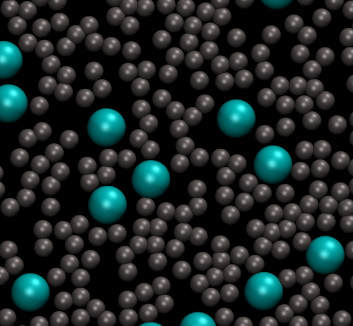
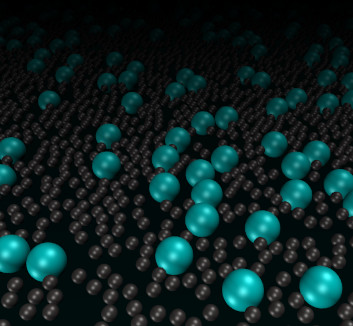
Add files via upload

diff --git a/tuto01/tuto01a.html b/tuto01/tuto01a.html
@@ -34,14 +34,26 @@
 <span class="image main"><img src="lammps_tuto01.jpg" alt="" /></span>
 
 <p>							
-The purpose of this tutorial is to show you how to use LAMMPS to perform a simple simulation of molecular dynamics.
-To follow this tutorial, you don't need to know any computer language, and you don't need to have any previous experience with simulation. I will be using Ubuntu, but any OS is fine. 
+<b>Objective:</b> The purpose of this tutorial is to use the open-source molecular dynamics code named LAMMPS (acronym for Large-scale Atomic/Molecular Massively Parallel Simulator) to perform a simple simulation. The simulation consists in a binary fluid in a 2D box (see the image above), with atoms of the fluid interacting through a simple Lennard-Jones potential. This simulation may seem overly simple, but is however extremely instructive as it uses many ingredients that are fundamental to molecular dynamics simulations, such as system initialisation, integration of the equations of motion, etc.
+
 <br><br>
-The simulation consists in a binary fluid in a 2D box (see the image above), with atoms on the fluid interacting through a simple Lennard-Potential. Even if this simulation may seems overly simple, it is in fact extremely instructive as it use many ingredients that are fundamental to molecular dynamics simulations.
+
+<b>Prerequisite:</b> To follow this tutorial, you don't need to know any computer language, and you don't need to have any previous experience with simulation.
+
 <br><br>
-If you already have a good grasp on LAMMPS, you can download directly the input script that will be written following this tutorial <a href="input.lammps" target="_blank">here</a>.
+
+<b>Shortcut:</b> If you already have a good grasp on LAMMPS, you can download directly the input script that will be written following this tutorial <a href="input.lammps" target="_blank">here</a>.</p>
+
+<blockquote>
+<i>Note 1.</i> The basic logic of molecular dynamics is exposed in this 46 seconds videos: <br> <br>
+<iframe width="560" height="315" src="https://www.youtube.com/embed/9MjGNyblIIQ" frameborder="0" allow="accelerometer; autoplay; clipboard-write; encrypted-media; gyroscope; picture-in-picture" allowfullscreen></iframe>
+</blockquote>
+
+<blockquote>
+<i>Note 2.</i> If you have any suggestion that could help me improve these tutorials, or find a typo, please contact me by email at s.gravelle at qmul.ac.uk.
+</blockquote>
  
-</p>
+
 
 <h2>Step 1 -- Software installation</h2>
 <br>
@@ -63,7 +75,7 @@ LAMMPS is the code that will allow us to perform our molecular simulations, but 
 <a href="https://help.gnome.org/users/gedit/stable/" target="_blank" class="removelinkdefault">gedit</a>, 
 but any text editor will do,</li>
 <li> a visualisation software, here I will use
-<a href="https://www.ks.uiuc.edu/Research/vmd/" target="_blank" class="removelinkdefault">VMD</a> (note that you will have to register in order to download VMD. If you don't want to, you can also use Ovito),</li>
+<a href="https://www.ks.uiuc.edu/Research/vmd/" target="_blank" class="removelinkdefault">VMD</a> (note that you will have to register in order to download VMD. If you don't want to, you can also use <a href="https://www.ovito.org/" target="_blank" class="removelinkdefault">Ovito</a>),</li>
 <li> and a plotting tool, for example 
 <a href="http://exciting-code.org/xmgrace-quickstart" target="_blank" class="removelinkdefault">Xmgrace</a>.</li>
 </ul>
@@ -73,7 +85,7 @@ but any text editor will do,</li>
 <h2>Step 2 -- Your first LAMMPS script</h2>
 <br>
 <p>
-In order to run a simulation using LAMMPS, we just need to write a series of commands in an input script, which is simply a text file. Lammps will read the text file one line at a time. A typical input script contains four categories, which we are going to fill right now. Create a folder, and create a text file in it. Call it <i>input.lammps</i> and copy the following lines in it: 
+In order to run a simulation using LAMMPS, we just need to write a series of commands in an input script, which is typically a short text file. Lammps will read the text file one line at a time. A typical input script contains four categories, which we are going to fill soon. Create a folder, and create a text file in it. Call it 'input.lammps', and copy the following lines in it: 
 <pre><code># Initialization
 
 # System definition
@@ -83,7 +95,7 @@ In order to run a simulation using LAMMPS, we just need to write a series of com
 # Run
 </code></pre>
 </p><p>
-A line starting with a # is a comment that will be ignored by LAMMPS. In the first part of the script, called <i>Initialization</i>, we are going to indicate to LAMMPS what kind of simulation we are going to execute, by specifying the boundary conditions, the type of atoms (e.g. uncharged single dot, molecule, etc), etc. Enter the following lines:
+A line starting with a # is a comment that will be ignored by LAMMPS. In the first section of the script, called 'Initialization', we are going to indicate to LAMMPS what kind of simulation we are going to execute by specifying vary basic information, such as the conditions at the boundaries of the box (e.g periodic, non-periodic) or the type of atoms (e.g. uncharged single dots, spheres with angular velocities, etc.). Enter the following lines:
 <pre><code># Initialization
 
 units		lj
@@ -92,14 +104,14 @@ atom_style	atomic
 pair_style	lj/cut 2.5
 boundary	p p p 
 </code></pre></p><p>
-The five new lines are respectively four commands that will be understood by LAMMPS. The first line indicates that we want to use the system of unit called <i>lj</i> for which all quantities are unitless. The second line indicates that the simulation is 2D, the third line that the atomic style will be used (therefore atoms are just a dot with a mass). The fourth line indicates that atoms are going to interact through a Lennard-Jones potential with a cut-off equal to 2.5, and the last line indicates that the periodic boundary conditions are used along all three direction of space. It may seems strange to define periodic boundary condition along the third dimension since we are performing 2D simulation, but it is a LAMMPS requirement. At this point, you have a LAMMPS script that does nothing. You can execute it to verify that there is no mistake by running the following command in the terminal:
+These five new lines are respectively four commands that will be understood by LAMMPS. The first line indicates that we want to use the system of unit called 'lj' for which all quantities are unitless. The second line indicates that the simulation is 2D, the third line that the atomic style will be used (therefore atoms are just a dot with a mass). The fourth line indicates that atoms are going to interact through a Lennard-Jones potential with a cut-off equal to 2.5 (unitless), and the last line indicates that the periodic boundary conditions are used along all three direction of space. It may seems strange to define periodic boundary condition along the third dimension since we are performing 2D simulation, but it is a LAMMPS requirement. At this point, you have a LAMMPS script that does nothing. You can execute it to verify that there is no mistake by running the following command in the terminal:
 <pre><code>lmp -in input.lammps
 </code></pre></p><p>
 Which should return something like
 <pre><code>LAMMPS (20 Nov 2019)
 Total wall time: 0:00:00
 </code></pre></p><p>
-If you have a mistake in your code, for example if you wrote <i>atom_stile</i> instead of <i>atom_style</i>, LAMMPS will give you a warning:
+If you have a mistake in your code, for example if you wrote 'atom_stile' instead of 'atom_style', LAMMPS will give you a warning:
 <pre><code>LAMMPS (20 Nov 2019)
 ERROR: Unknown command: atom_stile	atomic (src/input.cpp:232)
 Last command: atom_stile	atomic
@@ -112,7 +124,7 @@ create_box        2 myreg
 create_atoms      1 random 1500 341341 myreg
 create_atoms      2 random 100 127569 myreg
 </code></pre></p><p>
-The first line creates a region of space named <i>myreg</i> that goes from -30 to 30 along x, -30 to 30 along y, and -0.5 to 0.5 along z, and the second line creates a simulation box based on the region <i>myreg</i>. The argument '2' corresponds to number of atom types that will be used in the simulation. The third command specifies that 1500 atoms of type 1 must be created randomly in the region <i>myreg</i>. <i>341341</i> is a seed, you can give it different values to create different initial conditions for your simulations. The fourth line creates 100 atoms of type 2. If you run LAMMPS, you should see the following in the terminal:
+The first line creates a region of space named 'myreg' that goes from -30 to 30 along x, -30 to 30 along y, and -0.5 to 0.5 along z, and the second line creates a simulation box based on the region 'myreg'. The argument '2' corresponds to number of atom types that will be used in the simulation. The third command specifies that 1500 atoms of type 1 must be created randomly in the region 'myreg'. '341341' is a seed, you can give it different values to create different initial conditions for your simulations. The fourth line creates 100 atoms of type 2. If you run LAMMPS, you should see the following in the terminal:
 <pre><code>LAMMPS (20 Nov 2019)
 Created orthogonal box = (-30 -30 -0.5) to (30 30 0.5)
   1 by 1 by 1 MPI processor grid
@@ -122,7 +134,11 @@ Created 100 atoms
   create_atoms CPU = 4.097e-05 secs
 Total wall time: 0:00:00
 </code></pre></p><p>
-From what is printed in the terminal, it is clear that LAMMPS understood the commands and created the box, then the atoms. We can fill the simulation settings section of the input script:
+From what is printed in the terminal, it is clear that LAMMPS understood the commands and created the box, then the atoms. 
+
+<br><br>
+
+Let us fill the third section (settings) of the input script:
 <pre><code># Simulation settings
 
 mass              1 1
@@ -130,13 +146,21 @@ mass              2 1
 pair_coeff        1 1 1.0 1.0
 pair_coeff        2 2 0.5 3.0
 </code></pre></p><p>
-The two first commands give a mass equal to 1 (unitless) to atoms of type 1 and 2 respectively. The third line sets the Lennard-Jones coefficients (respectively the depth of the potential well ε and the distance at which the particle-particle potential energy is zero σ) for the interactions between atoms of type 1. The last line sets the Lennard-Jones coefficients for the interactions between atoms of type 2. By default, LAMMPS will calculate the Lennards coefficients for the interactions between atoms of type 1 and 2 by using geometric average (i.e. ε_ij = (ε_ii ε_jj)^0.5 and σ_ij = (σ_ii σ_jj)^0.5). We are ready to start the simulation, and can start to fill the Run section of the input script. Let us first perform a minimisation of energy:
+The two first commands attribute a mass equal to 1 (unitless) to atoms of type 1 and 2 respectively. The third line sets the Lennard-Jones coefficients (respectively the depth of the potential well ε and the distance at which the particle-particle potential energy is zero σ) for the interactions between atoms of type 1. The last line sets the Lennard-Jones coefficients for the interactions between atoms of type 2. By default, LAMMPS will calculate the Lennards coefficients for the interactions between atoms of type 1 and 2 by using geometric average (i.e. ε_ij = (ε_ii ε_jj)^0.5 and σ_ij = (σ_ii σ_jj)^0.5). 
+
+<br><br>
+
+The simulation is almost ready, we just need to fill the 'Run' section of the input script. Let us first perform a minimisation of energy:
 <pre><code># Run
 
 thermo		10
 minimize	1.0e-4 1.0e-6 1000 10000
 </code></pre></p><p>
-The first line simply commands LAMMPS to print thermodynamic info, like the temperature or the energy, in the terminal every 10 timestep. The second line asks LAMMPS to perform an energy minimization of the system. An energy minimization consist in adjusting the coordinates of the atoms until a stopping criteria is reached. Here the stopping criteria are, respectively, the change in energy between two iterations is less than 1.0e-4, the maximum force between two atoms in the system is lower than 1.0e-6, the maximum number of iteration is 1000, of the maximum number of times force and energy have been evaluated is 10000. If you run the simulation, and if there is no error in the input file, you should have many information printed in you terminal. For example, you should see the following lines in the middle (with different values eventually):
+The first line asks LAMMPS to print thermodynamic information (e.g. temperature, energy) in the terminal every 10 timesteps. The second line asks LAMMPS to perform an energy minimization of the system. An energy minimization consists in adjusting the coordinates of the atoms until one of the stopping criteria is reached. Here the stopping criteria are, respectively, the change in energy between two iterations is less than 1.0e-4, the maximum force between two atoms in the system is lower than 1.0e-6, the maximum number of iterations is 1000, or the maximum number of times the force and the energy have been evaluated is 10000. 
+
+<br><br>
+
+Now running the simulation, you should see numerous information printed in you terminal. For example, you should see the following lines (with slightly different values eventually):
 <pre><code>Step Temp E_pair E_mol TotEng Press 
        0            0 5.8997404e+14            0 5.8997404e+14 1.5732641e+15 
       10            0     56275037            0     56275037 1.5007118e+08 
@@ -149,14 +173,18 @@ The first line simply commands LAMMPS to print thermodynamic info, like the temp
       80            0   -1.7516642            0   -1.7516642  -0.15686171 
       81            0   -1.7518285            0   -1.7518285  -0.15730928 
 </code></pre></p><p>
-These lines give us many information concerning the progress of the energy minimisation step. First, at a the start of the simulation (step 0), the energy in the system is huge: 5.8997404e+14 (unitless). This is normal because the atoms have been created randomly within the simulation box, and some of them are probably too close to each others at the beginning, resulting in a huge initial energy. As the energy minimisation progresses, the energy rapidly decreases and reaches a negative, more acceptable value, indicating that atoms have been displaced at a reasonable distance from each others. Still in the terminal, you can find other interesting information, for example, LAMMPS tells us that the first of the fiur criteria to be satisfied was the energy:
+These lines give us many information concerning the progress of the energy minimisation step. First, at the start of the simulation (step 0), the energy in the system is huge: 5.8997404e+14 (unitless). This is normal because the atoms have been created randomly within the simulation box, and some of them are probably too close to each others at the beginning, resulting in a huge initial energy. As the energy minimisation progresses, the energy rapidly decreases and reaches a negative, more acceptable value, indicating that the atoms have been displaced at reasonable distances from each others. Still in the terminal, you can find other interesting information, for example, LAMMPS tells us that the first of the four criteria to be satisfied was the energy:
 <pre><code>Minimization stats:
   Stopping criterion = energy tolerance
 </code></pre></p><p>
 You may also see the following warning:
 <pre><code>WARNING: Using 'neigh_modify every 1 delay 0 check yes' setting during minimization
 </code></pre></p><p>
-There is nothing to be worry about at this stage, the message is simply indicating that LAMMPS will be building the pairwise neighbor lists (that are used by LAMMPS to evaluate the interaction between atoms) more frequently than usual during the minimisation. The system is now ready and the molecular dynamics simulation can be launched. After the minimisation command, add the following lines:
+There is nothing to worry about at this stage, the message is simply an indicating that LAMMPS will be building the pairwise neighbor lists (that are used by LAMMPS to evaluate the interaction between atoms) more frequently than usual during the minimisation.
+
+<br><br>
+
+The system is now ready, and the molecular dynamics simulation can be launched. After the minimisation command, add the following lines:
 <pre><code>fix		mynve all nve
 fix		mylgv all langevin 1.0 1.0 0.1 1530917
 fix		myefn all enforce2d
@@ -164,7 +192,7 @@ timestep	0.005
 thermo		1000
 run		10000
 </code></pre></p><p>
-For LAMMPS, a `fix' is an operation applied to a group of atoms. The first fix performs constant NVE integration (micro-canonical ensemble with constant number of atom N, constant volume V, and constant energy E) to update position and velocity for atoms in the group `all'. The second fix applies a Langevin thermostat to the atoms of group `all', with a desired temperature of 1, a damping parameter of 0.1. The number 1530917 is a seed, you can change it to perform different simulation with the same system. The third fix ensures that the atoms remain within the 2D plan. Finally we choose the timestep, ask LAMMPS to print information in the terminal every 1000 timsteps (instead of 10 during the minimisation step), and ask LAMMPS to run for 10000 timesteps. After running the simulation, you should see the following information in the terminal:
+For LAMMPS, a `fix' is an operation applied to a group of atoms. The first fix performs constant NVE integration (micro-canonical ensemble with constant number of atom N, constant volume V, and constant energy E) to update the positions and the velocities of the atoms in the group `all'. The second fix applies a Langevin thermostat to the atoms of group `all', with a desired temperature of 1 and a damping parameter of 0.1. The number '1530917' is a seed, you can change it to perform different simulations with the same system. The third fix ensures that the atoms remain within the 2D plan. Finally we choose the timestep, we ask LAMMPS to print information in the terminal every 1000 timesteps (instead of 10 during the minimisation step), and we ask LAMMPS to run for 10000 timesteps. After running the simulation, you should see the following information in the terminal:
 <pre><code>Step Temp E_pair E_mol TotEng Press 
       81            0   -1.7518285            0   -1.7518285  -0.15730928 
     1000    1.0001038   -1.2883573            0  -0.28887856    1.0156263 
@@ -186,7 +214,7 @@ Neighbor list builds = 999
 Dangerous builds = 998
 Total wall time: 0:00:02
 </code></pre></p><p>
-During the simulation, they have been 998 dangerous builds. This is an indication that something is wrong with the simulation, and that some atoms have moved more than expected in between two calculations of the neighbor lists. Let us add the following command in the Simulation settings Section:
+During the simulation, they have been 998 dangerous builds. This is an indication that something is wrong with the simulation, and that some atoms have moved more than expected in between two calculations of the neighbor lists. Let us add the following command in the 'Simulation settings' section:
 <pre><code>neigh_modify 	every 1 delay 5 check yes
 </code></pre></p><p>
 With this command, LAMMPS will rebuild the neighbor lists more often. Re-run the simulation, and you should see a more positive outcome:
@@ -201,7 +229,7 @@ Total wall time: 0:00:02
 <h2>Step 3 -- Trajectories visualisation</h2>
 <br>
 <p>
-Good. We have a simulation that is running well, but we would like to visualise the trajectories of the atoms. To do so, we are going to print the positions of the atoms in a file at a regular interval. Add the following command in the Simulation settings Section:
+We have a simulation that is running well, but we would like to visualise the trajectories of the atoms. To do so, we are going to dump the positions of the atoms in a file at a regular interval. Add the following command in the 'simulation settings' section:
 <pre><code>dump		mydmp all atom 1000 dump.lammpstrj
 </code></pre></p><p>
 In you run LAMMPS again, a file named dump.lammpstrj should appear in the same folder as your input. This file can be opened using VMD, Ovito, etc. In Ubuntu, you can simply execute in the terminal:
@@ -211,7 +239,7 @@ Otherwise, you can open VMD and open dump.lammpstrj manually using file -> molec
 <iframe width="560" height="315" src="https://www.youtube.com/embed/bN2VV2gOLAw" frameborder="0" allow="accelerometer; autoplay; clipboard-write; encrypted-media; gyroscope; picture-in-picture" allowfullscreen></iframe>
 <br><br>
 <blockquote>
-Video/Image tips: If you want your simulation to resemble the video above, increase the frequency of the dump command in the input.lammps file to smooth the trajectories. You can also increase the size of the region and the number of atoms created. In VMD, change the color of the atoms in Graphics -> Color. You can also control each type of atom separately by replacing 'all' by 'type 1' in Graphics -> Representation, in the Selected Atoms box. 
+<b>Video/Image tips:</b> If you want your simulation to resemble the video above, increase the frequency of the dump command file to smooth the trajectories. You can also increase the size of the system and the number of atoms created. Then, in VMD, use the drawing method named VDW (in Graphics -> Representations), and change the color of the atoms in Graphics -> Color. You can also control each type of atom separately by replacing 'all' by 'type 1' in Graphics -> Representation, in the Selected Atoms box. 
 </blockquote>
 </p>
 
@@ -229,9 +257,9 @@ If you run LAMMPS again, you should get something like:
 ERROR: Lost atoms: original 1600 current 272 (src/thermo.cpp:438)
 Last command: run		10000
 </code></pre></p><p>
-LAMMPS lost some of the atoms, and stops. This is one of the most common error message that you will see when constructing your system. It is usually the consequence of badly constructed system or inappropriate dynamics. In the present case, atoms are too close to each others initially, so they apply forces on each others that are huge, leading to enormous acceleration. As a consequence, atoms are moving by large distances during the firsts timesteps, and LAMMPS loses them. </p>
+The message indicates that LAMMPS did lost some of the atoms, then stoped. This is one of the most common error message that you will see. It is usually the consequence of badly constructed system or inappropriate dynamics. In the present case, atoms are too close to each others initially, so they apply forces on each others that are huge, leading to enormous acceleration. As a consequence, atoms are moving by large distances during the firsts timesteps, and LAMMPS loses them. </p>
 <blockquote><p>
-Dealing with lost atoms error:
+<b>Dealing with lost atoms error:</b>
 They are several ways of dealing with the lost atoms error, such as performing minimisation of energy (as we did), or using a smaller timestep together with a thermostat with strong damping. If you have trouble understanding why this error is occurring in your system, you can use 
 <pre><code>thermo		1
 </code></pre></p><p>
@@ -239,7 +267,7 @@ and
 </code></pre></p><p>
 <pre><code>dump		mydmp all atom 1 dump.lammpstrj
 </code></pre></p><p>
-This way you may be able to visualise the very first steps, and may be identify the error.
+This way you may be able to visualise the very first steps, and identify the location of the error.
 </p></blockquote>
 
 
